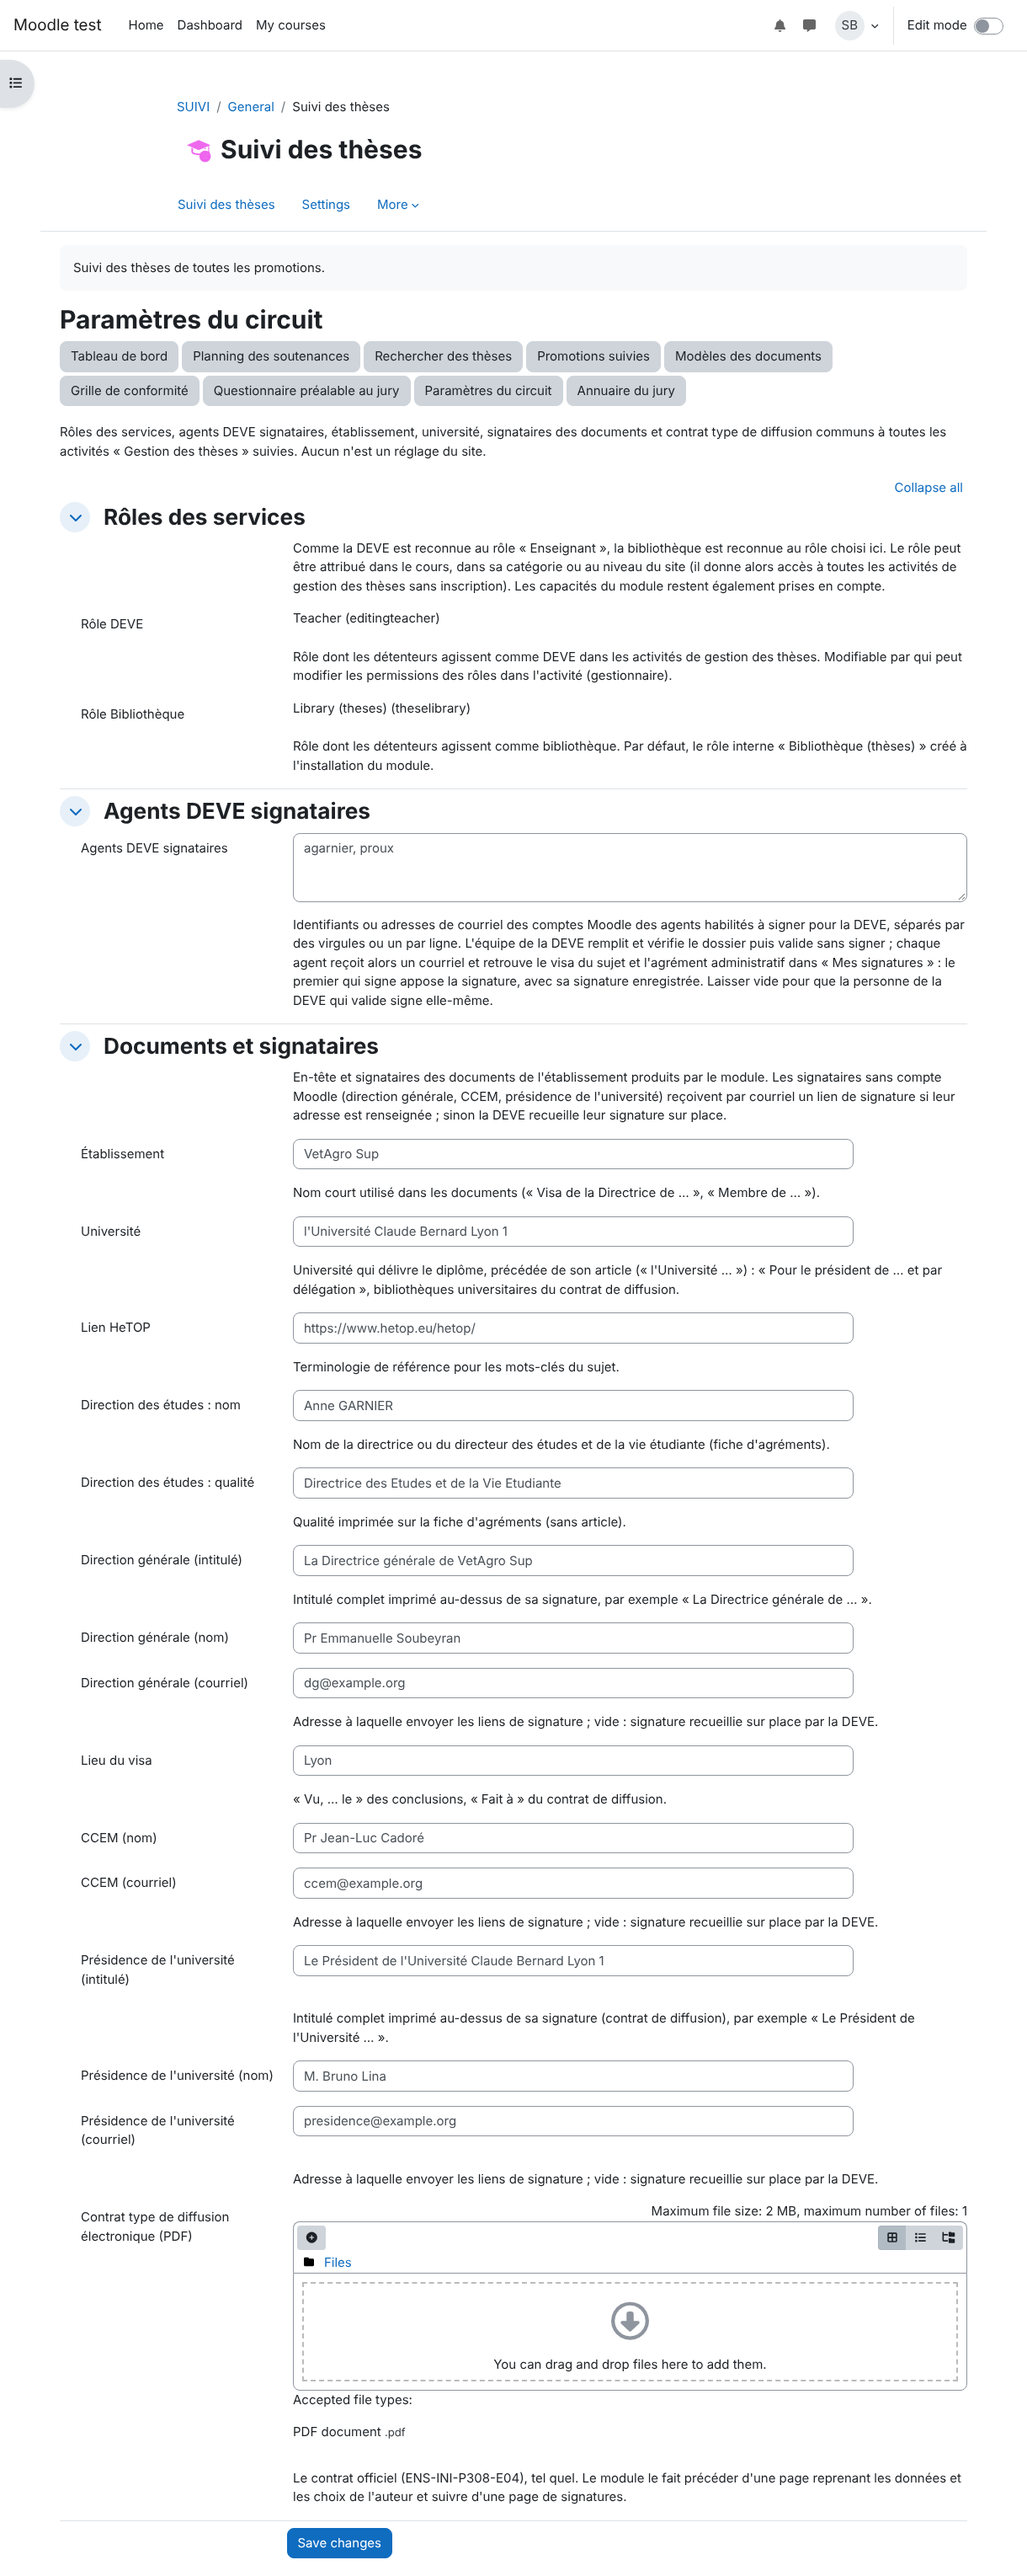
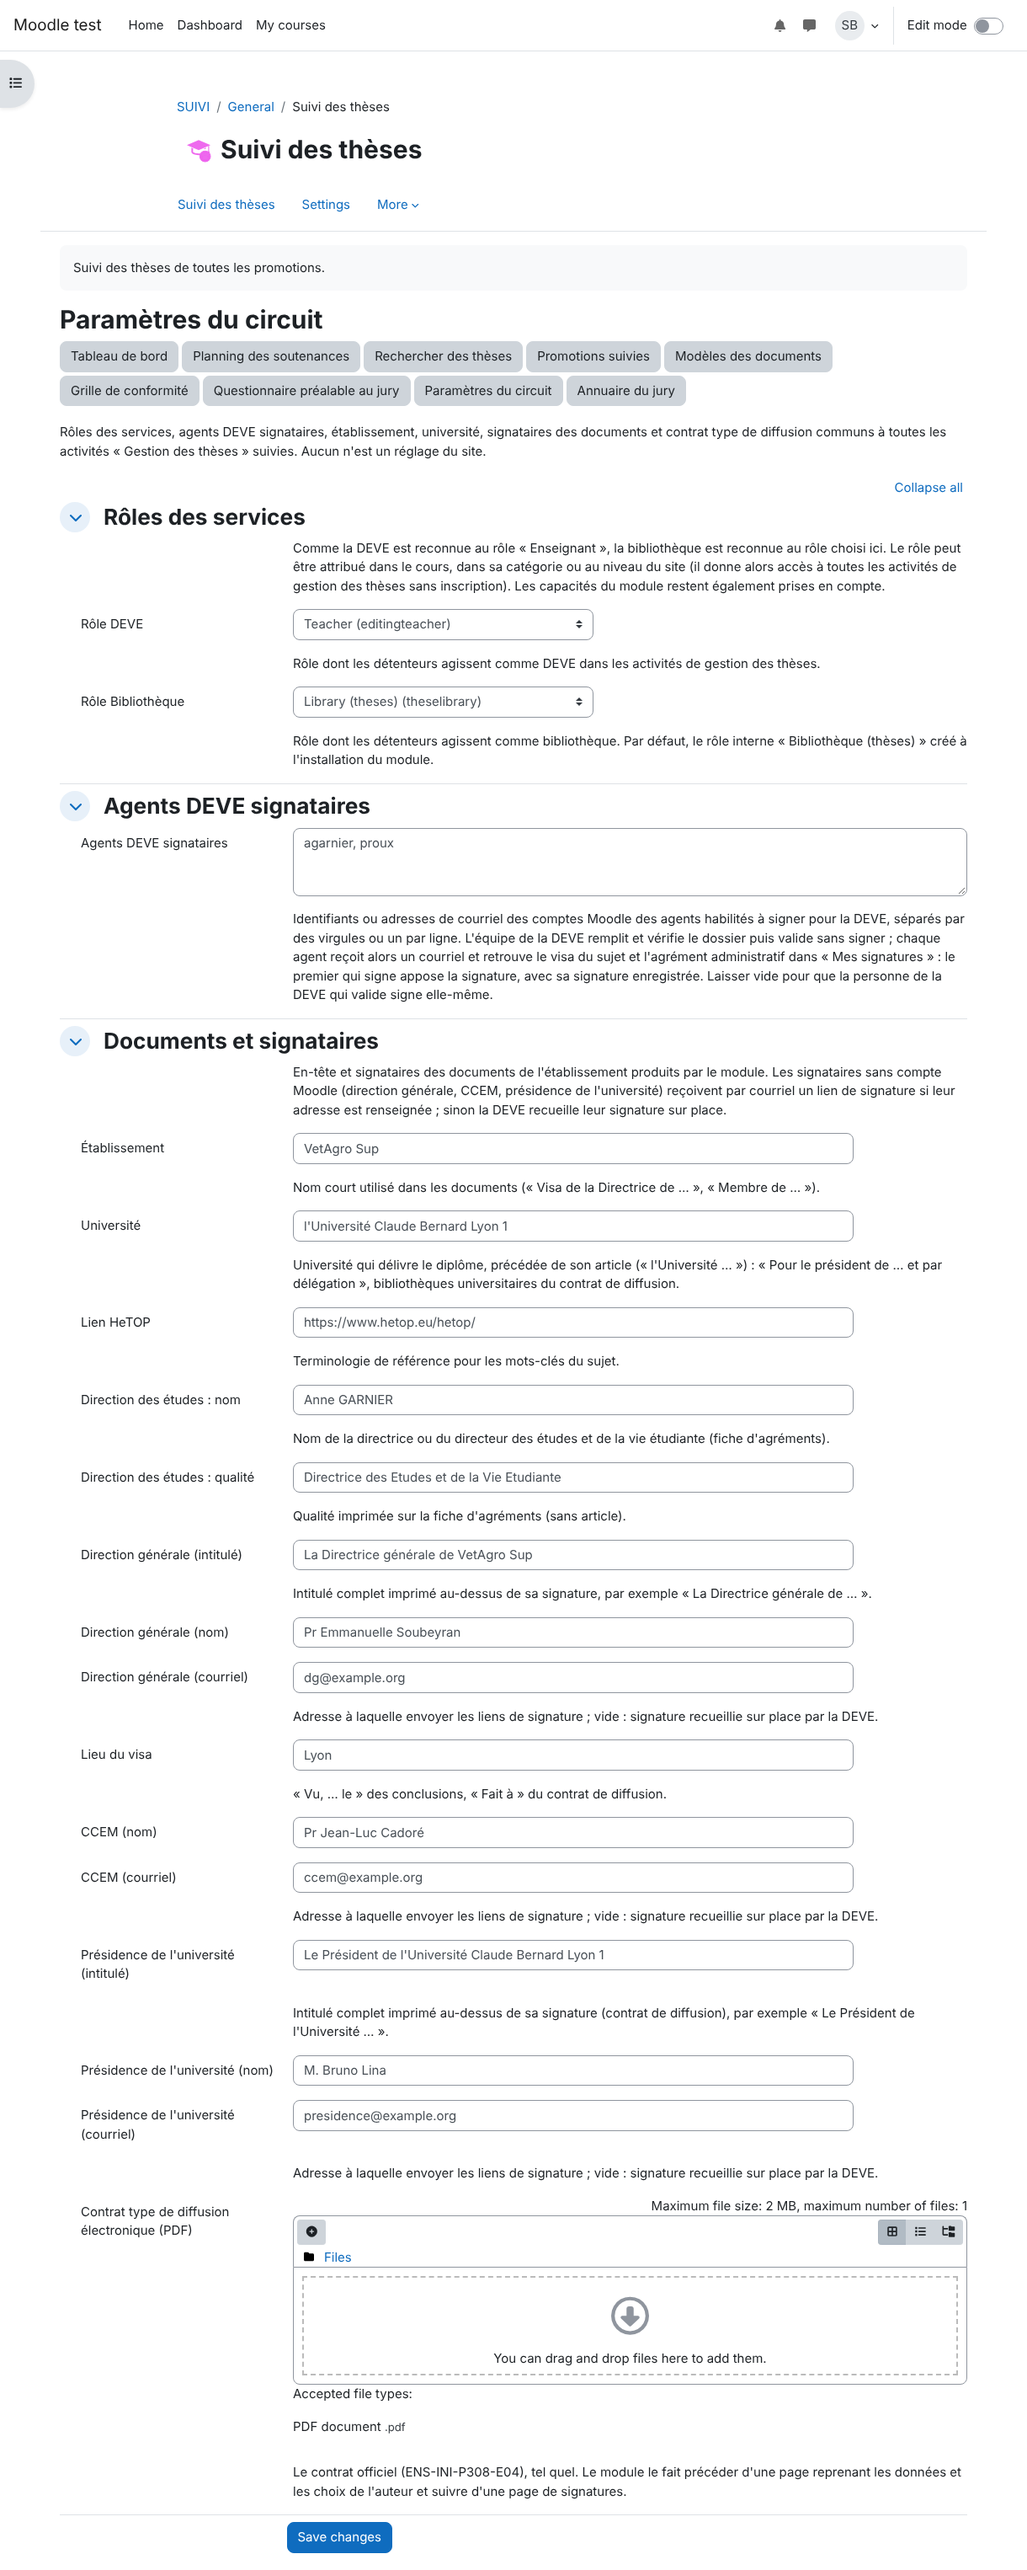
La DEVE règle aussi les rôles des services dans les paramètres du circuit
La DEVE est responsable de l'activité : plus de restriction des rôles DEVE et
Bibliothèque au gestionnaire. Textes, guide, INSTALL et capture mis à jour.

Claude-Session: https://claude.ai/code/session_01RmsV41KAocsBj2f5gDBxn6

diff --git a/mod/these/classes/local/scopesettings_page.php b/mod/these/classes/local/scopesettings_page.php
@@ -24,7 +24,8 @@ use stdClass;
 /**
  * Page des paramètres du circuit d'une portée, commune à l'activité « Suivi des thèses » et à une
  * activité « Gestion des thèses » qu'aucune activité de suivi ne suit. Chaque page vérifie ses
- * propres droits et prépare $PAGE avant d'appeler output().
+ * propres droits et prépare $PAGE avant d'appeler output(). La DEVE, responsable de l'activité, y
+ * règle tout, rôles des services compris.
  *
  * @package   mod_these
  * @copyright 2026 Sébastien Lefebvre
@@ -47,8 +48,7 @@ class scopesettings_page {
             $roles[$role->id] = $role->localname;
         }
         $fileoptions = ['subdirs' => 0, 'maxfiles' => 1, 'accepted_types' => ['.pdf']];
-        $canroles = has_capability('moodle/role:override', $PAGE->context);
-        $form = new scopesettings_form($baseurl, ['roles' => $roles, 'canroles' => $canroles, 'fileoptions' => $fileoptions]);
+        $form = new scopesettings_form($baseurl, ['roles' => $roles, 'fileoptions' => $fileoptions]);
 
         $draftitemid = file_get_submitted_draft_itemid('contracttemplate');
         file_prepare_draft_area($draftitemid, $scope->contextid, $scope->component, 'contracttemplate', 0, $fileoptions);
@@ -57,9 +57,6 @@ class scopesettings_page {
         if ($data = $form->get_data()) {
             $values = [];
             foreach (array_keys(scopesettings::defaults()) as $name) {
-                if (in_array($name, ['deverole', 'libraryrole'], true) && !$canroles) {
-                    continue;
-                }
                 if (isset($data->$name)) {
                     $values[$name] = $data->$name;
                 }

diff --git a/mod/these/classes/form/scopesettings_form.php b/mod/these/classes/form/scopesettings_form.php
@@ -26,7 +26,7 @@ use mod_these\local\scopesettings;
  * Paramètres du circuit d'une portée (voir \mod_these\local\scopesettings) : rôles des services,
  * agents DEVE signataires, établissement, université, signataires des documents et contrat type.
  *
- * customdata : roles (id => nom), canroles (bool : modification des rôles permise), fileoptions.
+ * customdata : roles (id => nom), fileoptions.
  *
  * @package   mod_these
  * @copyright 2026 Sébastien Lefebvre
@@ -48,11 +48,6 @@ class scopesettings_form extends \moodleform {
             $mform->addElement('select', $name, get_string($name, 'mod_these'), $this->_customdata['roles']);
             $mform->setType($name, PARAM_INT);
             $mform->addElement('static', $name . 'desc', '', get_string($name . '_desc', 'mod_these'));
-            if (empty($this->_customdata['canroles'])) {
-                // Choisir le rôle DEVE revient à donner les droits de la DEVE : réservé à qui peut
-                // modifier les permissions des rôles dans l'activité.
-                $mform->hardFreeze($name);
-            }
         }
 
         $mform->addElement('header', 'agentheader', get_string('settingsdeveagent', 'mod_these'));

diff --git a/mod/these/lang/fr/these.php b/mod/these/lang/fr/these.php
@@ -576,8 +576,7 @@ $string['settingsroles_desc'] = "Comme la DEVE est reconnue au rôle « Enseigna
     . "Le rôle peut être attribué dans le cours, dans sa catégorie ou au niveau du site (il donne alors accès à toutes les activités "
     . "de gestion des thèses sans inscription). Les capacités du module restent également prises en compte.";
 $string['deverole'] = 'Rôle DEVE';
-$string['deverole_desc'] = "Rôle dont les détenteurs agissent comme DEVE dans les activités de gestion des thèses. Modifiable par qui "
-    . "peut modifier les permissions des rôles dans l'activité (gestionnaire).";
+$string['deverole_desc'] = 'Rôle dont les détenteurs agissent comme DEVE dans les activités de gestion des thèses.';
 $string['libraryrole'] = 'Rôle Bibliothèque';
 $string['libraryrole_desc'] = "Rôle dont les détenteurs agissent comme bibliothèque. Par défaut, le rôle interne « Bibliothèque "
     . "(thèses) » créé à l'installation du module.";

diff --git a/mod/these/lang/en/these.php b/mod/these/lang/en/these.php
@@ -570,8 +570,7 @@ $string['settingsroles_desc'] = 'Just as the registrar is recognised by the "Tea
     . 'here. The role can be assigned in the course, its category or at site level (it then gives access to all thesis activities '
     . 'without enrolment). The module capabilities are also taken into account.';
 $string['deverole'] = 'Registrar role';
-$string['deverole_desc'] = 'Role whose holders act as the registrar in thesis activities. Can be changed by those who may override '
-    . 'role permissions in the activity (manager).';
+$string['deverole_desc'] = 'Role whose holders act as the registrar in thesis activities.';
 $string['libraryrole'] = 'Library role';
 $string['libraryrole_desc'] = 'Role whose holders act as the library. By default, the internal "Library (theses)" role created when '
     . 'the module is installed.';

diff --git a/docs/guides/guide-these.tex b/docs/guides/guide-these.tex
@@ -235,9 +235,7 @@ l'installation. Les deux correspondances se règlent dans les
   \item[Rôle Bibliothèque] par défaut \og Bibliothèque (thèses)\fg{}.
 \end{description}
 
-Choisir le rôle DEVE revient à en donner les droits : seul un utilisateur qui
-peut modifier les permissions des rôles dans l'activité (gestionnaire) change
-ces deux rôles. Un rôle choisi ici donne les droits du service même sans les
+La DEVE, responsable de l'activité, choisit elle-même ces deux rôles. Un rôle choisi ici donne les droits du service même sans les
 capacités du module. Il peut être attribué dans le cours, dans sa catégorie ou \textbf{au
 niveau du site} (\chemin{Administration du site > Utilisateurs > Permissions >
 Attribution des rôles système}) : les bibliothécaires accèdent alors à toutes

diff --git a/CHANGES.md b/CHANGES.md
@@ -23,9 +23,8 @@ développement ne correspondent à aucune version installable ; 0.11.2 n'a jamai
   « Suivi des thèses », valables pour toutes les promotions qu'elle suit ; une
   activité « Gestion des thèses » qu'aucune activité de suivi ne suit a les
   siens, sous le même bouton. Nouvelle table `these_setting` ; le contrat type
-  est rangé dans la zone `contracttemplate` de l'activité. Les deux rôles ne
-  sont modifiables que par qui peut modifier les permissions des rôles dans
-  l'activité (gestionnaire) : choisir le rôle DEVE en donne les droits.
+  est rangé dans la zone `contracttemplate` de l'activité. La DEVE,
+  responsable de l'activité, règle tout, rôles des services compris.
 - Mise à jour (`db/upgrade.php`, 2026102602) : les anciens réglages du site et
   le contrat type sont recopiés dans chaque activité « Suivi des thèses » et
   « Gestion des thèses », puis supprimés du site.

diff --git a/mod/these/INSTALL.md b/mod/these/INSTALL.md
@@ -34,9 +34,8 @@ l'installer.
 Le module n'a **aucun réglage du site**. Les rôles des services, comme tous les
 paramètres du circuit (voir 3 bis), se choisissent dans l'activité *Suivi des
 thèses*, bouton *Paramètres du circuit* ; une activité *Gestion des thèses*
-qu'aucune activité de suivi ne suit a les siens, sous le même bouton. Seul un
-utilisateur qui peut modifier les permissions des rôles dans l'activité
-(gestionnaire) change ces deux rôles :
+qu'aucune activité de suivi ne suit a les siens, sous le même bouton. La DEVE,
+responsable de l'activité, les règle elle-même :
 
 - **Rôle DEVE** (« Enseignant » par défaut, comme pour `mod_stage`) ;
 - **Rôle Bibliothèque** : le module crée à l'installation le rôle « Bibliothèque

diff --git a/mod/thesesynthesis/INSTALL.md b/mod/thesesynthesis/INSTALL.md
@@ -31,8 +31,8 @@ php admin/cli/upgrade.php
    suivies (les pages correspondantes des activités suivies renvoient ici).
    **Paramètres du circuit** de même : rôles DEVE et Bibliothèque, agents DEVE
    signataires, établissement, université, signataires des documents et
-   contrat type de diffusion. Le module n'a aucun réglage du site ; les deux
-   rôles ne sont modifiables que par un gestionnaire.
+   contrat type de diffusion. Le module n'a aucun réglage du site : la DEVE,
+   responsable de l'activité, règle tout, rôles compris.
 6. **Annuaire du jury** : y saisir (ou importer en CSV) les enseignants pouvant
    diriger une thèse ou siéger au jury, avec leur titre et leur statut.
 
